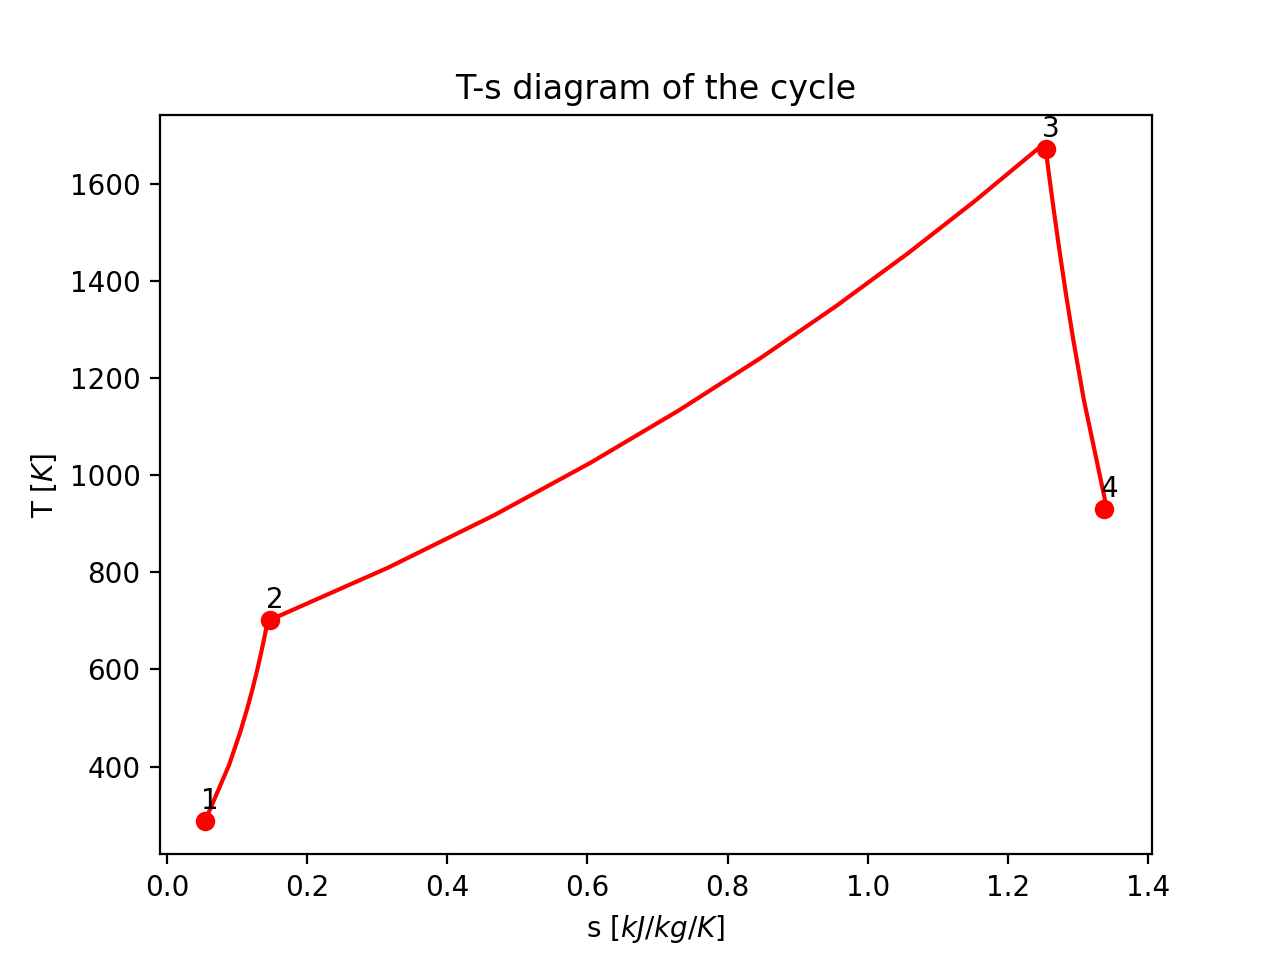
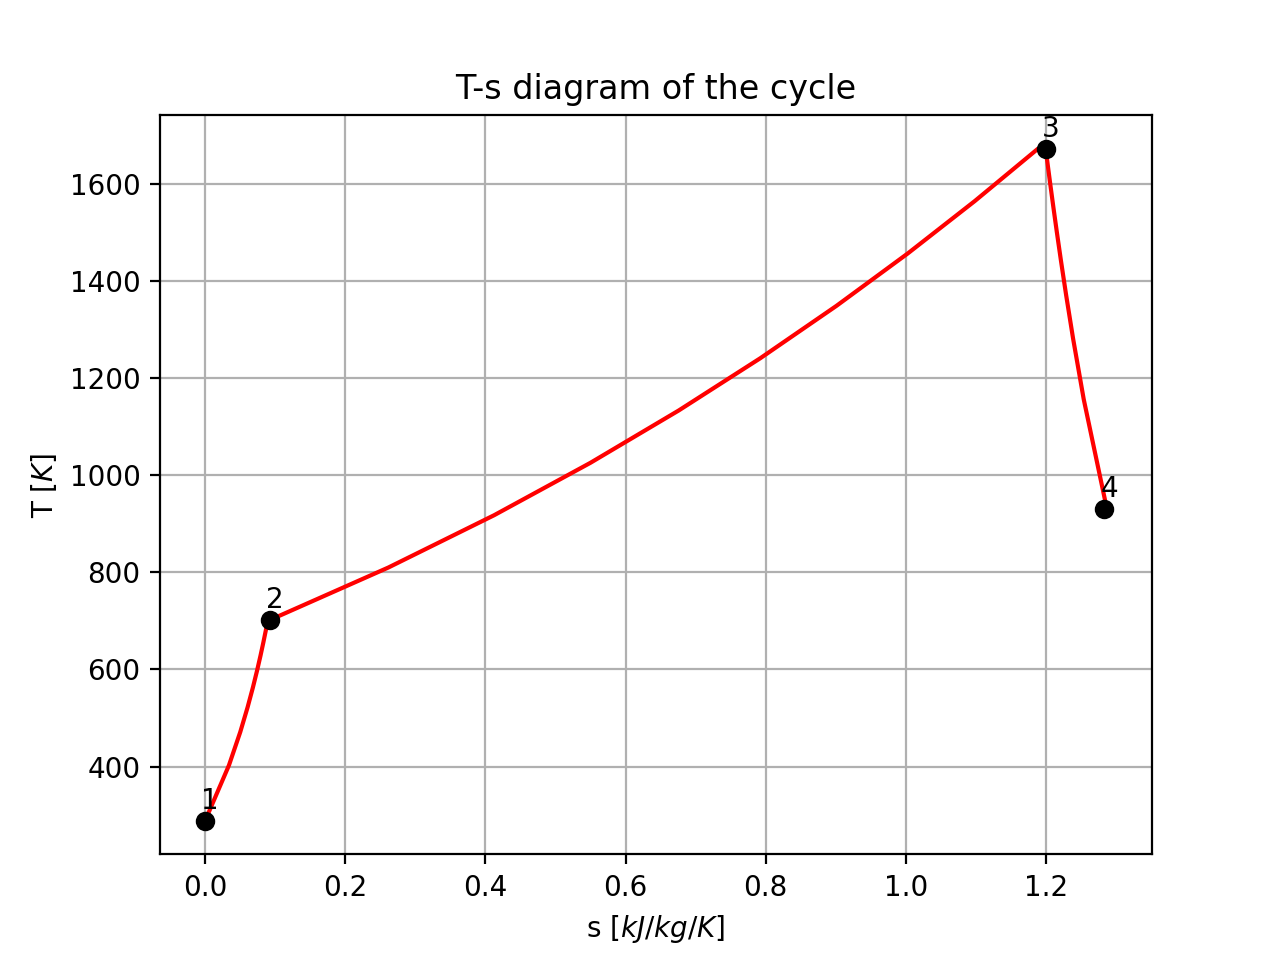
graphs update

diff --git a/HW2/Python scripts/GT_group_42.py b/HW2/Python scripts/GT_group_42.py
@@ -252,8 +252,8 @@ def gas_turbine(P_e,options,display):
 
     #set references state
     for i in comp:
-        Dmolar = CP.PropsSI("Dmolar", "T", T_S, "P", p_1, i)
-        CP.set_reference_state(i, T_S, Dmolar, 0, 0)
+        Dmolar = CP.PropsSI("Dmolar", "T", T_1, "P", p_1, i)
+        CP.set_reference_state(i, T_1, Dmolar, 0, 0)
 
     # State 1 -- 4->1: Isobar Heat Rejection
     s_1 = .79*CP.PropsSI('S','T', T_1,'P', p_1, "N2") + .21*CP.PropsSI('S','T', T_1,'P', p_1, "O2")
@@ -402,14 +402,13 @@ def gas_turbine(P_e,options,display):
         h_34[i] = h_34[i-1] + cp_4*(T_34[i]-T_34[i-1])
 
 
-    s_points = np.append(s_12, [s_23, s_34])*1e-3#, [s_4]] )#*1e-3
-    h_points = np.append(h_12, [h_23, h_34])*1e-3#, [s_4]] )#*1e-3
+    s_points = np.append(s_12, [s_23, s_34])#, [s_4]] )#*1e-3
+    h_points = np.append(h_12, [h_23, h_34])#, [s_4]] )#*1e-3
     T_points = np.append(T_12, [T_23, T_34])#, [T_4]] )
 
 
     # My 3rd figure: T-s
     fig_Ts_diagram = plt.figure(3)
-    plt.scatter(np.array(s)*1e-3, T, c="red")
     labels = ['1', '2', '3', '4']
     for i, label in enumerate(labels): #get (0, label)
         plt.annotate(label,
@@ -418,7 +417,9 @@ def gas_turbine(P_e,options,display):
                 textcoords='offset points',
                 ha='right',
                 va='bottom')
-    plt.plot(s_points, T_points, c="red")
+    plt.grid(True)
+    plt.plot(s_points*1e-3, T_points, c="red")
+    plt.plot(np.array(s)*1e-3, T, 'ko')
     plt.title('T-s diagram of the cycle')
     plt.xlabel("s $[kJ/kg/K]$")
     plt.ylabel("T $[K]$")
@@ -426,7 +427,6 @@ def gas_turbine(P_e,options,display):
 
     # My 4th figure: h-s
     fig_hs_diagram = plt.figure(4)
-    plt.scatter(np.array(s)*1e-3, np.array(h)*1e-3, c="red")
     labels = ['1', '2', '3', '4'];
     for i, label in enumerate(labels): #get (0, label)
         plt.annotate(label,
@@ -435,15 +435,17 @@ def gas_turbine(P_e,options,display):
                 textcoords='offset points',
                 ha='right',
                 va='bottom')
-    plt.plot(s_points, h_points, c="red")
+    plt.grid(True)
+    plt.plot(s_points*1e-3, h_points*1e-3, c="red")
+    plt.plot(np.array(s)*1e-3, np.array(h)*1e-3, 'ko')
     plt.title('h-s diagram of the cycle')
     plt.xlabel("s $[kJ/kg/K]$")
     plt.ylabel("h $[kJ/kg]$")
 
-    # fig_pie_en.savefig('IMG/pie_en_diag.png', dpi=200)
-    # fig_pie_ex.savefig('IMG/pie_ex_diag.png', dpi=200)
-    # fig_Ts_diagram.savefig('IMG/Ts_diag.png', dpi=200)
-    # fig_hs_diagram.savefig('IMG/hs_diag.png', dpi=200)
+    fig_pie_en.savefig('IMG/pie_en_diag.png', dpi=200)
+    fig_pie_ex.savefig('IMG/pie_ex_diag.png', dpi=200)
+    fig_Ts_diagram.savefig('IMG/Ts_diag.png', dpi=200)
+    fig_hs_diagram.savefig('IMG/hs_diag.png', dpi=200)
 
     # plt.show()
 

diff --git a/HW2/Python scripts/test.py b/HW2/Python scripts/test.py
@@ -32,7 +32,7 @@ def brayton():
                     ['2',1800,429 ,443.4 ,0.142,403.2 ],
                     ['3',1710,1400,1681.8,1.265,1317.9],
                     ['4',100 ,654 ,731.5 ,1.348,343.9 ] ]
-    # print(tabulate(data_sol, headers=header_sol, tablefmt="pretty"))    #tablefmt="latex_booktabs" for latex export
+    print(tabulate(data_sol, headers=header_sol, tablefmt="pretty"))    #tablefmt="latex_booktabs" for latex export
 
     header  = ['States', 'p\nkPa', 't\n°C', 'h\nkJ/kg', 's\nkJ/kgK', 'e\nkJ/kg']
     data    = [ ['1','%.0f'%(p[0]/1000), '%.0f'%(T[0]-273.15), '%.1f'%(h[0]/1000), '%.3f'%(s[0]/1000), '%.0f'%(e[0]/1000)],
